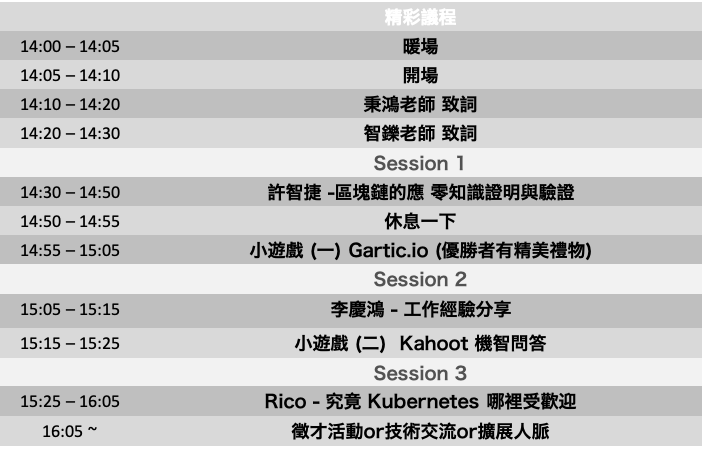
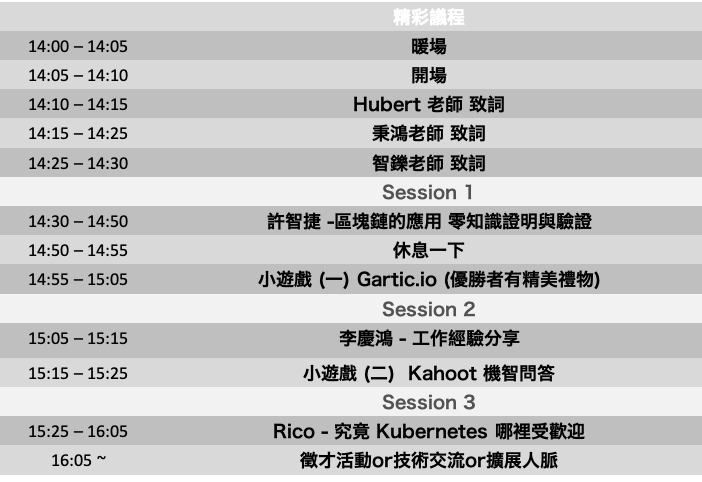
fix: typo in session image
github iii-cutting-edge-tech-lab redirect url

diff --git a/content/homepage/contact.md b/content/homepage/contact.md
@@ -8,6 +8,6 @@ header_menu: true
 
 {{<icon class="fa fa-facebook">}}&nbsp;[中壢資策會 Old Buddies](https://www.facebook.com/groups/349727092633390)
 
-{{<icon class="fa fa-github">}}&nbsp;[iii-cutting-edge-tech-lab]([tel:+491111555555](https://github.com/iii-cutting-edge-tech-lab))
+{{<icon class="fa fa-github">}}&nbsp;[iii-cutting-edge-tech-lab](https://github.com/iii-cutting-edge-tech-lab)
 
 Let us get in touch!
